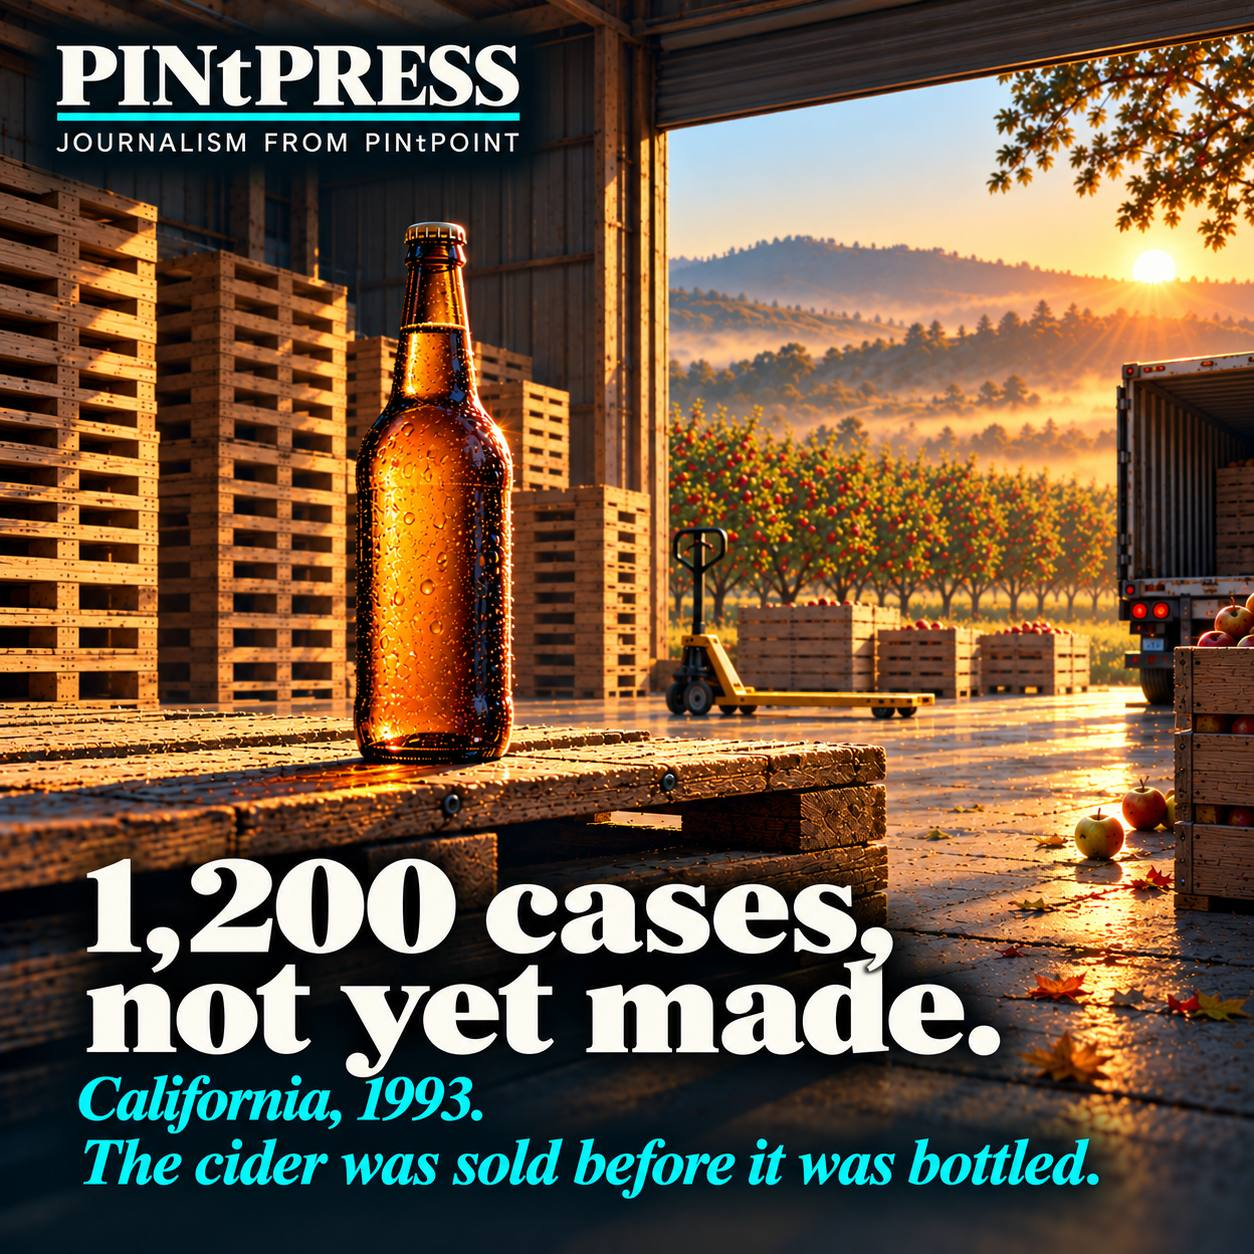
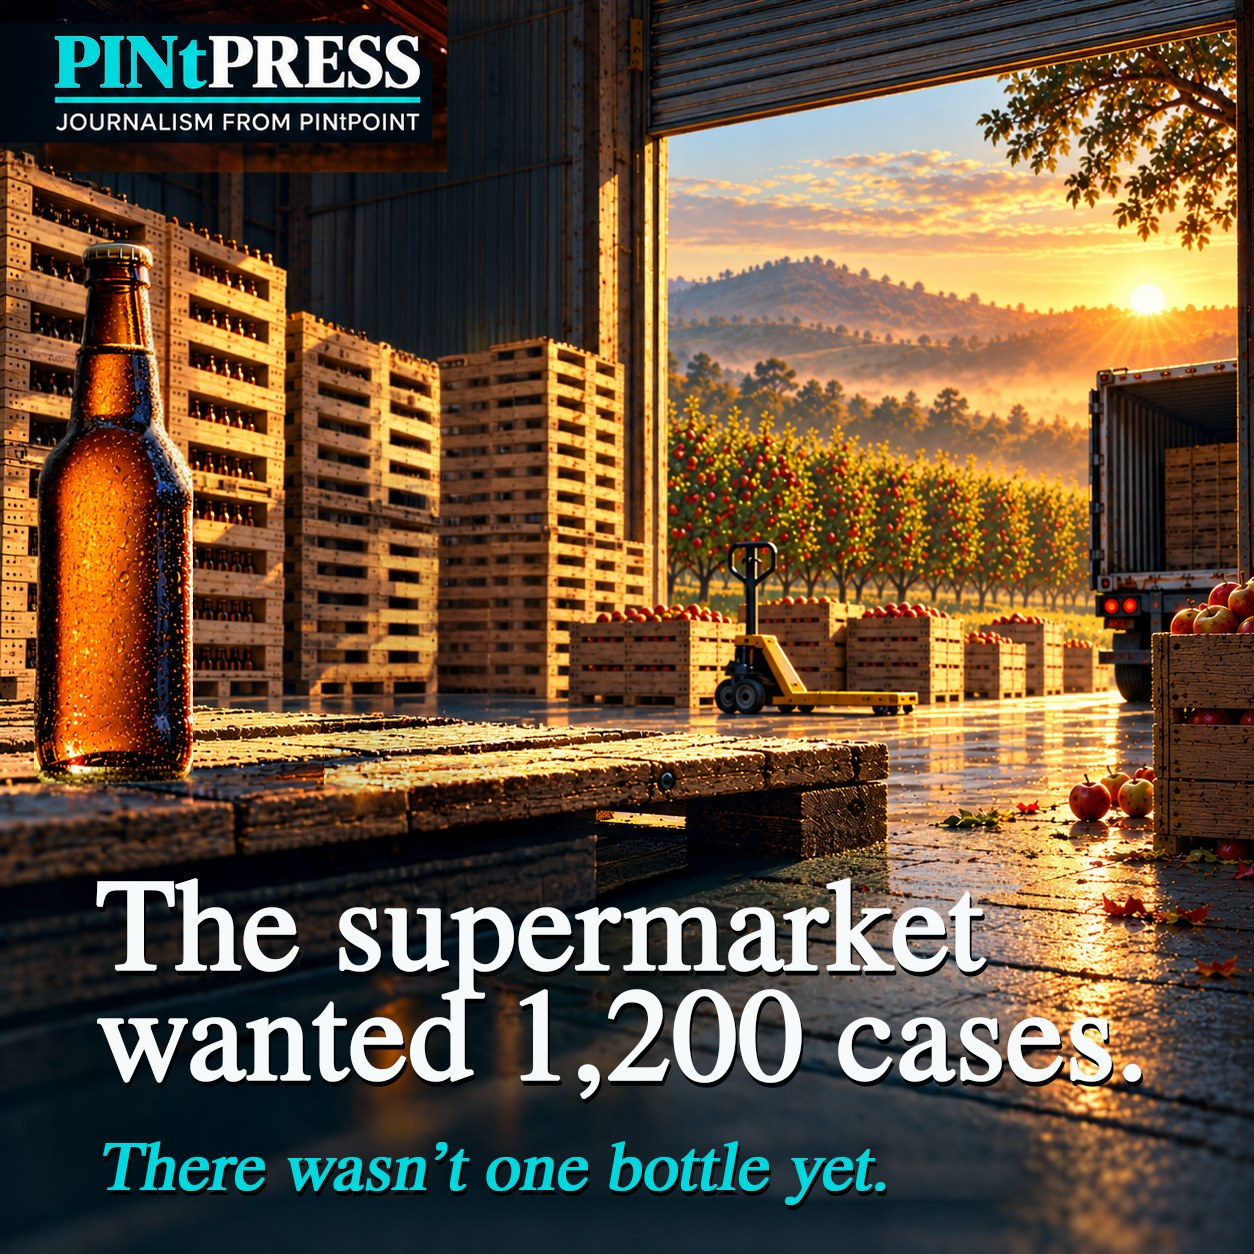
ACE gets the landscape card the other two already had
The page handed X and Facebook a 1254 square, which they centre crop to
about two to one, taking off the lockup and most of the headline. ESB
and Firestone Walker both serve a 1200 by 628 file and that is why
their cards survive a link post.

New square card in, and a landscape cut from its lower band with the
lockup set back into the corner. og:image, twitter:image and the
JSON-LD image now point at the landscape one, with the dimensions to
match. The square stays for Instagram.

diff --git a/blog/drafts/ace-the-importer-who-became-a-maker.html b/blog/drafts/ace-the-importer-who-became-a-maker.html
@@ -16,7 +16,7 @@
     "author": { "@id": "https://pintpoint.co.uk/#organization" },
     "publisher": { "@id": "https://pintpoint.co.uk/#organization" },
     "datePublished": "2026-10-23",
-    "image": "https://pintpoint.co.uk/blog/images/ace-the-importer-who-became-a-maker.jpg",
+    "image": "https://pintpoint.co.uk/blog/images/ace-the-importer-who-became-a-maker-x.jpg",
     "url": "https://pintpoint.co.uk/blog/ace-the-importer-who-became-a-maker.html",
     "mainEntityOfPage": "https://pintpoint.co.uk/blog/ace-the-importer-who-became-a-maker.html"
   }
@@ -26,14 +26,14 @@
   <meta property="og:type" content="article" />
   <meta property="og:url" content="https://pintpoint.co.uk/blog/ace-the-importer-who-became-a-maker.html" />
   <meta property="og:title" content="The supermarket wanted 1,200 cases. There wasn&rsquo;t one bottle yet." />
-  <meta property="og:image" content="https://pintpoint.co.uk/blog/images/ace-the-importer-who-became-a-maker.jpg" />
-  <meta property="og:image:width" content="1254" />
-  <meta property="og:image:height" content="1254" />
+  <meta property="og:image" content="https://pintpoint.co.uk/blog/images/ace-the-importer-who-became-a-maker-x.jpg" />
+  <meta property="og:image:width" content="1200" />
+  <meta property="og:image:height" content="628" />
   <meta property="og:image:alt" content="PINtPRESS card: &ldquo;The supermarket wanted 1,200 cases. There wasn&rsquo;t one bottle yet.&rdquo; over a Californian loading dock at sunrise, an unlabelled amber bottle on a pallet, stacked crates and a pallet truck, with an apple orchard and a lorry beyond." />
   <meta property="og:description" content="Jeffrey House spent ten years selling other people&rsquo;s cider in America. Then he took an order for 1,200 cases of his own cider, ACE, before he had bottled any." />
   <meta property="fb:app_id" content="1892965231402903" />
   <meta name="twitter:card" content="summary_large_image" />
-  <meta name="twitter:image" content="https://pintpoint.co.uk/blog/images/ace-the-importer-who-became-a-maker.jpg" />
+  <meta name="twitter:image" content="https://pintpoint.co.uk/blog/images/ace-the-importer-who-became-a-maker-x.jpg" />
   <meta name="twitter:image:alt" content="PINtPRESS card: &ldquo;The supermarket wanted 1,200 cases. There wasn&rsquo;t one bottle yet.&rdquo; over a Californian loading dock at sunrise, an unlabelled amber bottle on a pallet, stacked crates and a pallet truck, with an apple orchard and a lorry beyond." />
   <link rel="preconnect" href="https://fonts.googleapis.com" />
   <link rel="preconnect" href="https://fonts.gstatic.com" crossorigin />
